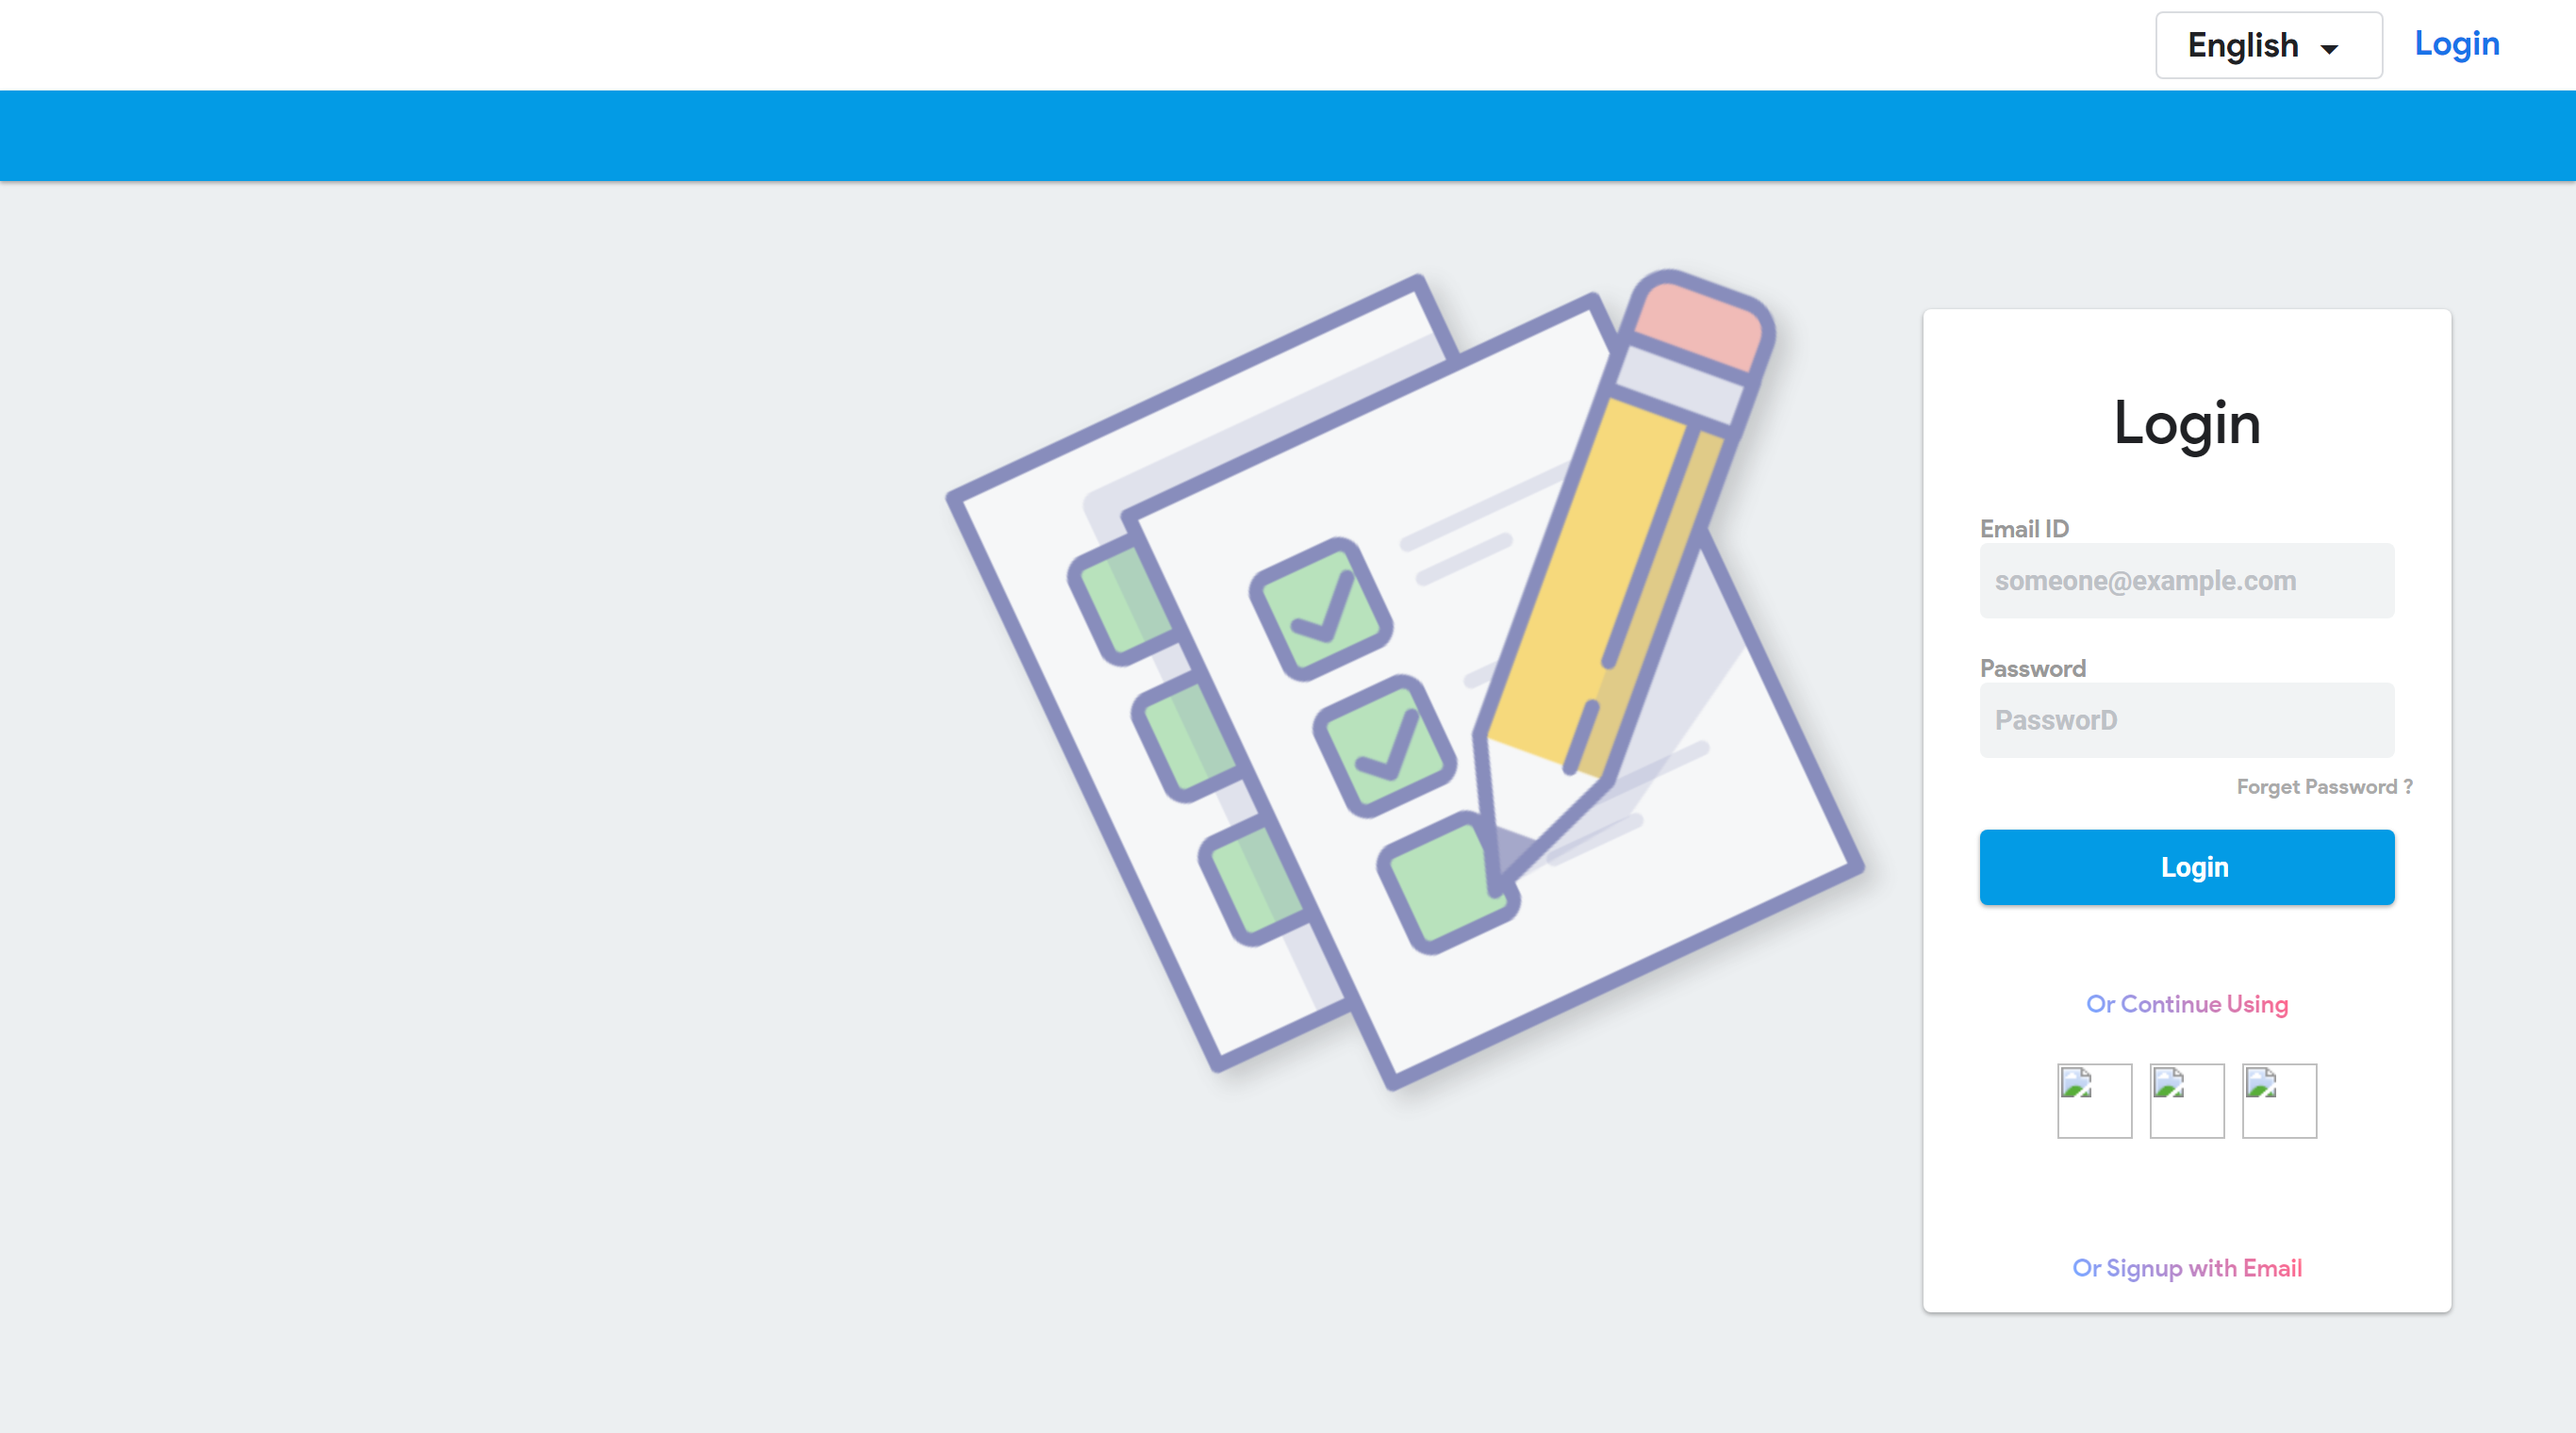
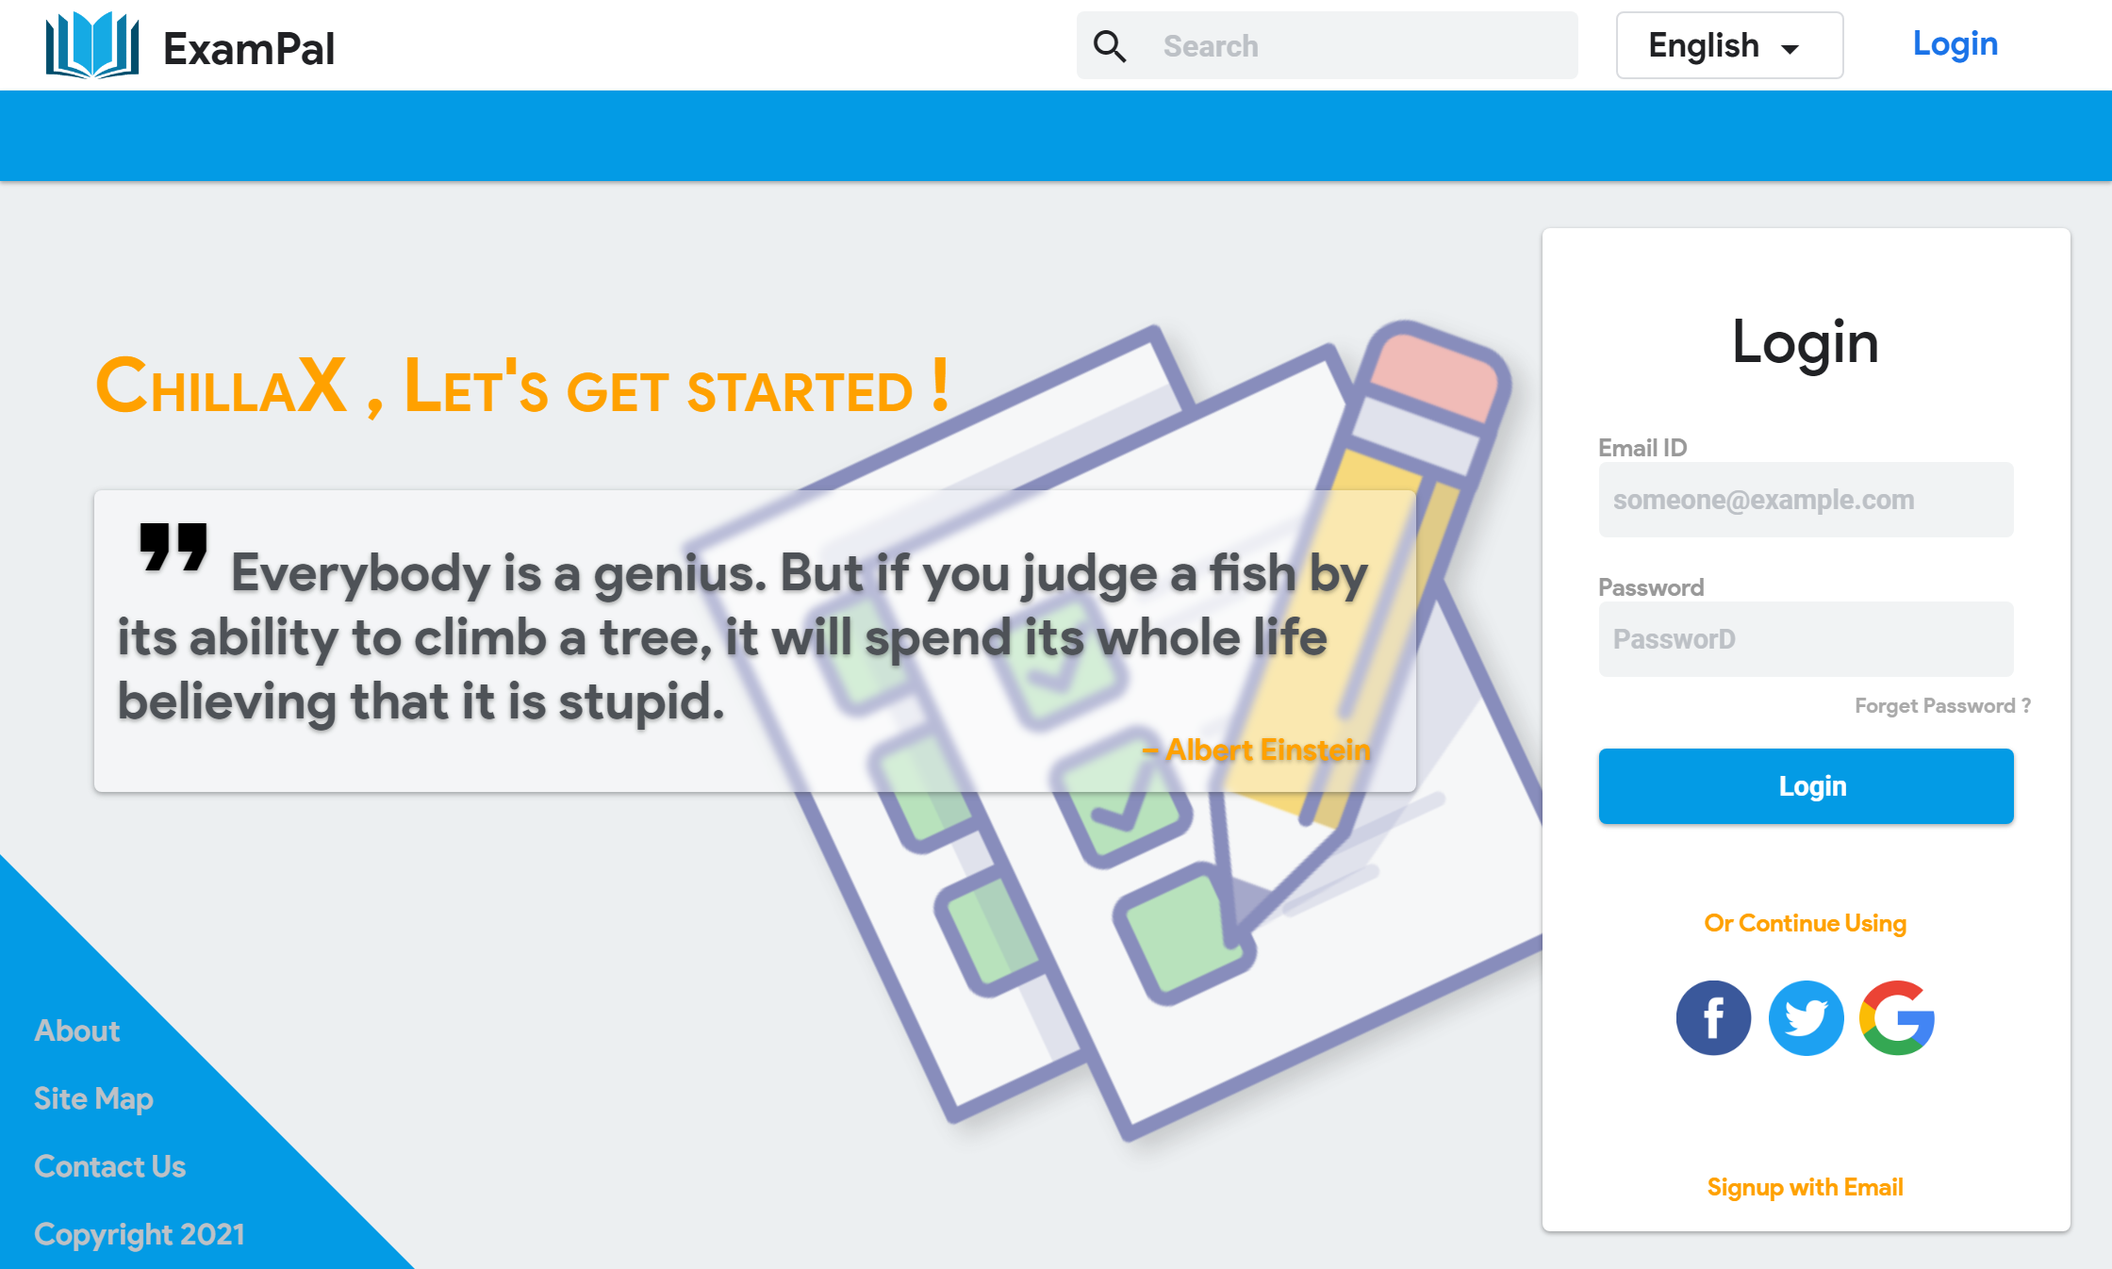
homepage complete almost

diff --git a/public/index.css b/public/index.css
@@ -2,11 +2,14 @@
   --ab: #039be5;
   --ao: #ffa100;
   --bg: #ECEFF1;
+  --bgb: #f1f3f4;
+  --bgh: #e8eaed;
   --ptc: #202124;
   --stc: #4e5257;
   --ttc: #bdc1c6;
   --shadow: 0 1px 3px rgba(0,0,0,0.12), 0 1px 2px rgba(0,0,0,0.24);
   --tbshadow: 0 1px 2px 0 rgba(60,64,67,0.3),0 1px 3px 1px rgba(60,64,67,0.15);
+  --trans: width 0.2s ease, background-color 0.2s ease, box-shadow 0.2s ease, color 0.2s ease;
 }
 
 * {
@@ -68,6 +71,7 @@
   word-wrap: normal;
   direction: ltr;
   -webkit-font-feature-settings: 'liga';
+  font-feature-settings: 'liga';
   -webkit-font-smoothing: antialiased;
   vertical-align: middle;
 }
@@ -78,16 +82,71 @@
 html {height: 100vh; width: 100vw;}
 body { height: 100vh; width: 100vw; background: var(--bg); color: var(--ptc); font-family: google-sans, Roboto, Helvetica, Arial, sans-serif;}
 header div.top { position: fixed; top: 0; left: 0;background: white; width: 100vw; height: 48px; padding: 6px 24px; }
-header div div {height: 36px; padding: 6px 16px; font-size: 18px;}
+header div div {height: 36px; padding: 6px 16px; font-size: 18px; margin-right: 20px;}
 header div.bottom { position: fixed; top: 48px; left: 0; background: var(--ab); width: 100vw; height: 48px; padding: 0 24px; box-shadow: var(--shadow);}
 
+header div.top div.search {
+  width: 266px;
+  padding: 0;
+  background-color: var(--bgb);
+  transition: var(--trans);
+  border-radius: 4px;
+}
+
+div.search input {
+  display: inline;
+  height: 36px;
+  text-indent: 8px;
+  background: none;
+  transition: none;
+}
+
+div.top div.login {transition: var(--trans);}
+
+div.top div.login:hover {
+  background-color: #e8f0fe;
+  box-shadow: var(--tbshadow);
+}
+
+header div.top div.search:hover {
+  background-color: var(--bgh);
+  color: var(--ptc);
+}
+header div.top div.search:focus-within {
+  background-color: white;
+  box-shadow: var(--tbshadow);
+  color: var(--ptc);
+  width: 500px;
+}
 #art {
   position: fixed;
-  top: calc(98px + ((100vh - 778px)/2));
-  right: calc(50vw - 350px);
+  top: calc(168px + ((100vh - 778px)/2));
+  right: calc(280px + ((100vh - 778px)/2));
   transform: rotate(-25deg);
   filter: drop-shadow(4px 8px 6px rgba(0,0,0,0.3)) opacity(0.5);
   z-index: 1;
+}
+
+div.container {
+  position: fixed;
+  top: 180px;
+  left: 50px;
+  max-width: calc(100vw - 100vh + 254px);
+  z-index: 2;
+}
+
+footer span {
+  display: block;
+  height: 36px;
+  padding: 8px 8px 8px 18px;
+  color: var(--ttc);
+  text-shadow: none;
+  transition: color 0.2s ease, text-shadow 0.2s ease;
+}
+
+footer span:hover {
+  color: white;
+  text-shadow: var(--shadow);
 }
 
 /*  
@@ -153,18 +212,18 @@ input {
   color: var(--stc);
   width: 220px;
   outline: none;
-  background-color: #f1f3f4;
-  transition: background-color 0.2s ease, box-shadow 0.2s ease, color 0.2s ease;
+  background-color: var(--bgb);
+  transition: var(--trans);
   font-family: Roboto, sans-serif;
 }
 
-input:focus {
+#main input:focus {
   background-color: white;
   box-shadow: var(--tbshadow);
   color: var(--ptc);
 }
-input:hover {
-  background-color: #e8eaed;
+#main input:hover {
+  background-color: var(--bgh);
   color: var(--ptc);
 }
 
@@ -191,12 +250,8 @@ div.login span.alt,
 div.login span.toggle {
   position: relative;
   font-size: 0.8em;
-  color: #999999;
+  color: var(--ao);
   bottom: 15px;
-  background: linear-gradient(50deg, rgba(119, 186, 255, 1) 0%, rgb(126, 165, 255) 5%, rgba(255, 104, 141, 1) 95%, rgba(255, 165, 165, 1) 100%);
-  -webkit-text-fill-color: transparent;
-  -webkit-background-clip: text;
-  background-clip: text;
 }
 
 div.imgs {

diff --git a/public/index.html b/public/index.html
@@ -16,12 +16,16 @@
   
     <script defer src="/__/firebase/init.js?useEmulator=true"></script>-->
     <link rel="stylesheet" href="./index.css" />
+    <script src="./index.js" ></script>
   </head>
   <body>
     <header>
       <div class="top" >
         <div class="login fr" style="color: #1a73e8;">Login</div>
         <div class="language fr" style="border: 1px solid #dadce0; border-radius: 4px;"><span>English </span><span class="material-icons">arrow_drop_down</span></div>
+        <div class="search fr"><span class="material-icons" style="padding-left: 6px;">search</span><input type="text" placeholder="Search"/></div>
+        <img src="./media/icon.png" style="height: 36px;" />
+        <span style="display: inline; font-size: 24px; top: -8px; position: relative; margin-left: 8px;">ExamPal</span>
       </div>
       <div class="bottom"></div>
     </header>
@@ -77,12 +81,29 @@
                     <img async src="./media/google.png" loading="lazy" class="google">
                 </div>
                 <br /><br /><br /><br />
-                <span class="toggle" id="toggle">Or Signup with Email</span>
+                <span class="toggle" id="toggle">Signup with Email</span>
 
             </div>
         </div>
     </center>
     </div>
+    <div class="container">
+      <div class="welcome" style="font-size: 40px;font-variant: small-caps;color: var(--ao);">ChillaX , Let's get started !</div>
+      <div class="quotes" style="padding: 0 24px 32px 12px;color: var(--stc);text-shadow: var(--shadow);backdrop-filter: blur(2px);border-radius: 4px;background: rgba(255,255,255,0.4);margin-top: 32px;">
+        <span class="material-icons" style="font-size: 60px;color: black;">format_quote</span><span class="quote" style="vertical-align: bottom;font-size: 28px;">Everybody is a genius. But if you judge a fish by its ability to climb a tree, it will spend its whole life believing that it is stupid.</span>
+        <br>
+        <span class="author" style="float: right;color: var(--ao);">– Albert Einstein</span>
+      </div>
+    </div>
+
     <img id="art" src="./media/exam_2.png" />
+
+    <div style="width: 0;height: 0;border-bottom: 220px solid var(--ab);border-right: 220px solid transparent;position: absolute;bottom: 0;"></div>
+    <footer style="position: absolute;bottom: 0;left: 0;height: 144px;">
+      <span>About</span>
+      <span>Site Map</span>
+      <span>Contact Us</span>
+      <span>Copyright 2021</span>
+    </footer>
   </body>
 </html>

diff --git a/public/index.js b/public/index.js
@@ -1,6 +1,5 @@
 window.onload = () => {
-    tl = document.getElementById('loader')
-    ht()
+
     let items = document.getElementsByTagName('form')
     toggle.onclick = () => {
         items[0].classList.toggle('hidden')

diff --git a/public/admin.css b/public/admin.css
@@ -1,4 +1,4 @@
-{
+* {
     padding: 0;
     margin: 0;
 }
